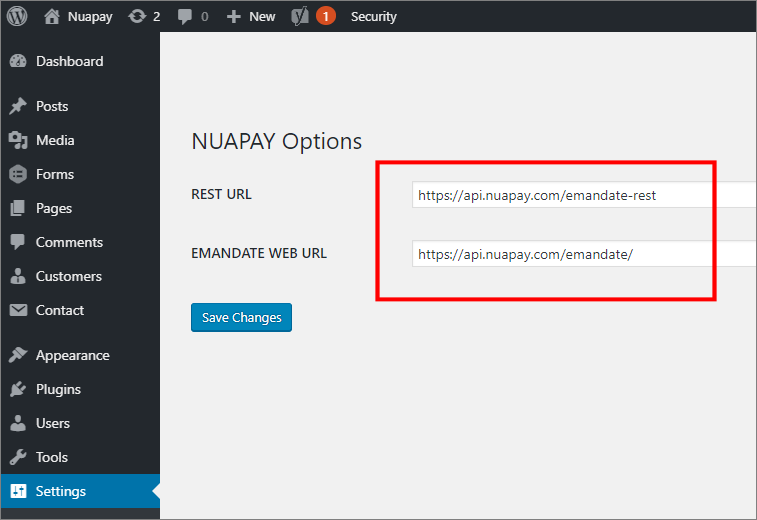
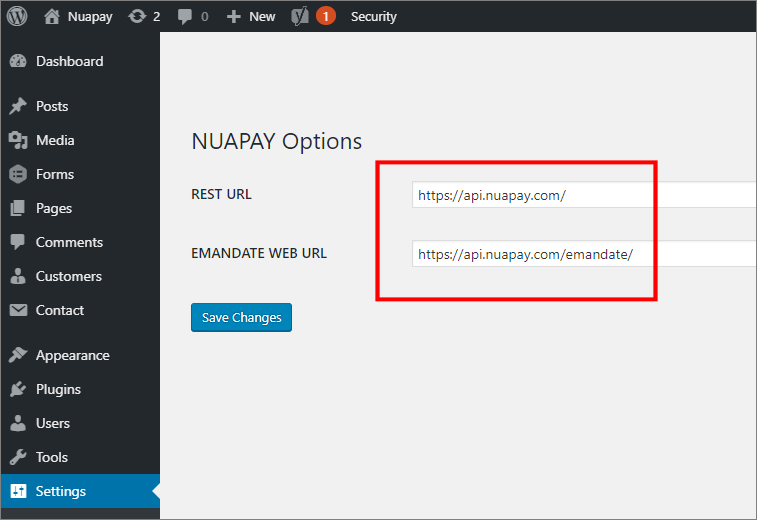
Wordpress Update & OB UIID change

Changed region(s): [[0.7292, 0.3077, 0.9723, 0.5846]]

diff --git a/_posts/2021-03-03- Open Banking v2.4 Release.md b/_posts/2021-03-03- Open Banking v2.4 Release.md
@@ -10,7 +10,7 @@ tags: [news]
 
 We're pleased to announce our v2.4 Open Banking Release.
 
-|**Note**| The following changes are scheduled to be available on the Sandbox environment in late January 2021.|
+|**Note**| This release combines release 2.3 and 2.4.|
 
 * This release includes a new QR-Code-driven decoupled-SCA approval method for **CHECKOUT** and **REDIRECT** integrations. This allows PSUs to initiate their open banking payment on the desktop and authorise the payment (using biometrics, for example) on a mobile device. 
 * UK Open Banking OBIE changes:
@@ -23,3 +23,10 @@ We're pleased to announce our v2.4 Open Banking Release.
 * When the **REDIRECT** integration was added (in v2.2), we introduced the concept of the `UIID`. In this release we have made it possible for **CHECKOUT** users to also optionally use this identifier (rather than the `paymentId`). 
 * It is now possible to pass the customer IP address in the [Create Payment](ob_createpayment.html) endpoint. 
 * This release also includes a new [Bank Status Check Service](ob_healthoverview.html) that enables merchants/partners to retrieve an availability rating for a given ASPSP at any point in time. Where the service returns a poor rating for an ASPSP, the merchant/partner may decide to mark that bank as unavailable on their Bank Selection UI, for example.
+
+* Some minor non-functional security enhancements have been made in this release in response to the findings of our bi-annual security audit.
+* Some updates related to Mutual TLS have been made in this release.
+  * We do not now reuse a connection where the client certificate differs from the certificate we want to use at the application level.
+  * If at the transport level of a connection we use certificate X. Only certificates belonging to the owner of certificate X can be used at the application level.
+* Performance enhancements for [List Payments](ob_listpayments.html) and [Retrieve Payment](ob_retrievepayment.html) endpoints have also been carried out in this release.
+

diff --git a/pages/prodOpenBanking/ob_redirectoverviewmerch.md b/pages/prodOpenBanking/ob_redirectoverviewmerch.md
@@ -25,7 +25,7 @@ In **Redirect** mode you will:
 1. Set the `integrationType` to `REDIRECT`. You must also provide the `merchantPostAuthUrl` - this is mandatory for the Redirect flow. 
 1. The Nuapay TPP creates the payment object and returns the `userInterfacePaymentId`.
 1. The <a href="#" data-toggle="tooltip" data-original-title="{{site.data.glossary.psu}}">PSU</a> then needs to be redirected to the URI with the `userInterfacePaymentId`. You must build a URI that can be used on a web page or sent by an e-mail to the end user. The URL will be similar to the following (on the Production environment): 
-   * `https://api.nuapay.com/tpp-ui/redirect?uiid=<userInterfacePaymentId>`
+   * `https://api.nuapay.com/tpp-ui/redirect?userInterfacePaymentId=<userInterfacePaymentId>`
 1. The end user clicks the URI and the <a href="#" data-toggle="tooltip" data-original-title="{{site.data.glossary.nupay_tpp}}">Nuapay TPP</a> (with the Bank selection window) is displayed in a new browser window.
 1. When the user selects a bank he/she is redirected to the selected <a href="#" data-toggle="tooltip" data-original-title="{{site.data.glossary.aspsp}}">ASPSP</a> to authorise the payment.
 1. The ASPSP redirects the PSU back to the TPP UI which processes that callback.

diff --git a/pages/prodOpenBanking/ob_redirectoverview.md b/pages/prodOpenBanking/ob_redirectoverview.md
@@ -32,7 +32,7 @@ In **Redirect** mode you will:
 1. Set the `integrationType` to `REDIRECT`. You must also provide the `merchantPostAuthUrl` - this is mandatory for the Redirect flow. 
 1. The TPP creates the payment object and returns the `userInterfacePaymentId`.
 1. The <a href="#" data-toggle="tooltip" data-original-title="{{site.data.glossary.psu}}">PSU</a> then needs to be redirected to the URL with the `userInterfacePaymentId`. You must build a URI that can be used on a web page or sent by an e-mail to the end user. The URL will be similar to the following (on the Production environment): 
-   * `https://api.nuapay.com/tpp-ui/redirect?uiid=<userInterfacePaymentId>`
+   * `https://api.nuapay.com/tpp-ui/redirect?userInterfacePaymentId=<userInterfacePaymentId>`
 1. The end user clicks the link and the <a href="#" data-toggle="tooltip" data-original-title="{{site.data.glossary.nupay_tpp}}">Nuapay TPP</a> (with the Bank selection window) is displayed in a new browser window.
 1. When the user selects a bank he/she is redirected to the selected <a href="#" data-toggle="tooltip" data-original-title="{{site.data.glossary.aspsp}}">ASPSP</a> to authorise the payment.
 1. The ASPSP redirects the PSU back to the TPP UI which processes that callback. 

diff --git a/pages/prodEmandates/em_wpconfig.md b/pages/prodEmandates/em_wpconfig.md
@@ -18,7 +18,7 @@ Once you have successfully <a href="em_wpinstall.html">installed the plugin</a>,
 	</p>
 	<li value="3">Add the following URLs:<ol>
 			<li value="1">
-				<b>REST URL</b>: https://api.nuapay.com/emandate-rest</li>
+				<b>REST URL</b>: https://api.nuapay.com/</li>
 			<li value="2">
 				<b>EMANDATE WEB URL</b>: https://api.nuapay.com/emandate/</li>
 		</ol>
